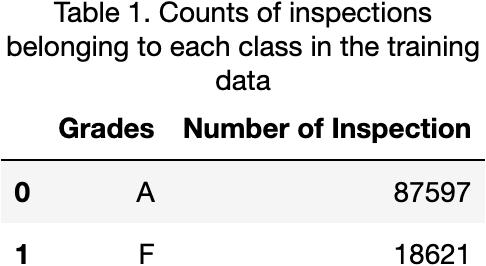
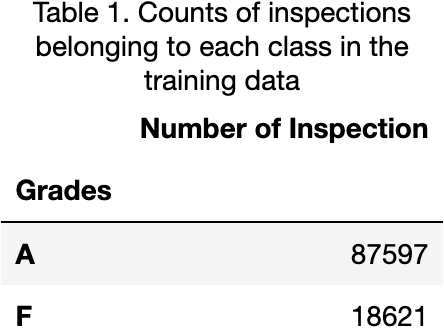
Reformat class table index

diff --git a/src/nyc_rest_eda.py b/src/nyc_rest_eda.py
@@ -102,7 +102,7 @@ def main(train_set, visual_dir):
     train_df = pd.read_csv(train_set)
 
     # Creates a table of the counts of Grade A and F in the training set
-    class_table = train_df['grade'].value_counts().rename_axis('Grades').reset_index(name='Number of Inspection')
+    class_table = train_df['grade'].value_counts().rename_axis('Grades').to_frame('Number of Inspection')
     class_table = class_table.style.set_caption('Table 1. Counts of inspections belonging to each class in the training data')
     dfi.export(class_table, visual_dir + "/class_table.png")
 
